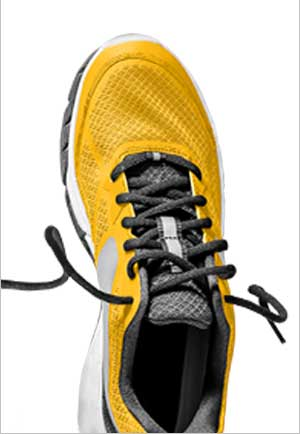
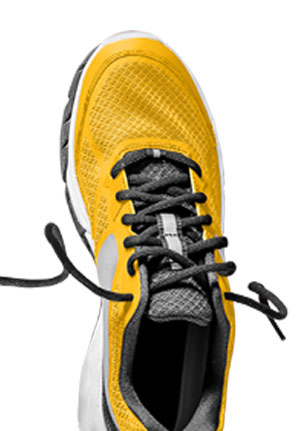
updates

Changed region(s): [[0.0, 0.0, 1.0, 1.0], [0.72, 0.9049, 0.75, 0.935], [0.42, 0.935, 0.45, 0.9652]]

diff --git a/demopage/Launch/2021/BSWH_NTX_Neuro/img/300x600/index.js b/demopage/Launch/2021/BSWH_NTX_Neuro/img/300x600/index.js
@@ -28,19 +28,19 @@ lib.ssMetadata = [];
 (lib.image_01 = function() {
 	this.initialize(img.image_01);
 }).prototype = p = new cjs.Bitmap();
-p.nominalBounds = new cjs.Rectangle(0,0,300,434);
+p.nominalBounds = new cjs.Rectangle(0,0,300,431);
 
 
 (lib.image_02 = function() {
 	this.initialize(img.image_02);
 }).prototype = p = new cjs.Bitmap();
-p.nominalBounds = new cjs.Rectangle(0,0,300,434);
+p.nominalBounds = new cjs.Rectangle(0,0,300,431);
 
 
 (lib.image_03 = function() {
 	this.initialize(img.image_03);
 }).prototype = p = new cjs.Bitmap();
-p.nominalBounds = new cjs.Rectangle(0,0,300,434);// helper functions:
+p.nominalBounds = new cjs.Rectangle(0,0,300,431);// helper functions:
 
 function mc_symbol_clone() {
 	var clone = this._cloneProps(new this.constructor(this.mode, this.startPosition, this.loop, this.reversed));
@@ -210,12 +210,13 @@ if (reversed == null) { reversed = false; }
 
 	// Layer_1
 	this.instance = new lib.image_03();
+	this.instance.setTransform(0,2);
 
 	this.timeline.addTween(cjs.Tween.get(this.instance).wait(1));
 
 	this._renderFirstFrame();
 
-}).prototype = getMCSymbolPrototype(lib.image_03_1, new cjs.Rectangle(0,0,300,434), null);
+}).prototype = getMCSymbolPrototype(lib.image_03_1, new cjs.Rectangle(0,2,300,431), null);
 
 
 (lib.image_02_1 = function(mode,startPosition,loop,reversed) {
@@ -231,12 +232,13 @@ if (reversed == null) { reversed = false; }
 
 	// Layer_1
 	this.instance = new lib.image_02();
+	this.instance.setTransform(0,2);
 
 	this.timeline.addTween(cjs.Tween.get(this.instance).wait(1));
 
 	this._renderFirstFrame();
 
-}).prototype = getMCSymbolPrototype(lib.image_02_1, new cjs.Rectangle(0,0,300,434), null);
+}).prototype = getMCSymbolPrototype(lib.image_02_1, new cjs.Rectangle(0,2,300,431), null);
 
 
 (lib.image_01_1 = function(mode,startPosition,loop,reversed) {
@@ -252,12 +254,13 @@ if (reversed == null) { reversed = false; }
 
 	// Layer_1
 	this.instance = new lib.image_01();
+	this.instance.setTransform(0,2);
 
 	this.timeline.addTween(cjs.Tween.get(this.instance).wait(1));
 
 	this._renderFirstFrame();
 
-}).prototype = getMCSymbolPrototype(lib.image_01_1, new cjs.Rectangle(0,0,300,434), null);
+}).prototype = getMCSymbolPrototype(lib.image_01_1, new cjs.Rectangle(0,2,300,431), null);
 
 
 (lib.ctaBtn = function(mode,startPosition,loop,reversed) {
@@ -545,7 +548,7 @@ if (reversed == null) { reversed = false; }
 	this._renderFirstFrame();
 
 }).prototype = p = new lib.AnMovieClip();
-p.nominalBounds = new cjs.Rectangle(149,299,425.20000000000005,741);
+p.nominalBounds = new cjs.Rectangle(149,299,425.20000000000005,740);
 // library properties:
 lib.properties = {
 	id: '4CB3FE4512EC4F04AD1A078CE62F288A',
@@ -555,9 +558,9 @@ lib.properties = {
 	color: "#FFFFFF",
 	opacity: 1.00,
 	manifest: [
-		{src:"image_01.jpg?1620231492830", id:"image_01"},
-		{src:"image_02.jpg?1620231492830", id:"image_02"},
-		{src:"image_03.jpg?1620231492830", id:"image_03"}
+		{src:"image_01.jpg", id:"image_01"},
+		{src:"image_02.jpg", id:"image_02"},
+		{src:"image_03.jpg", id:"image_03"}
 	],
 	preloads: []
 };

diff --git a/demopage/Launch/2021/BSWH_NTX_Neuro/img/300x600/index.html b/demopage/Launch/2021/BSWH_NTX_Neuro/img/300x600/index.html
@@ -15,7 +15,7 @@
 <title>index</title>
 <!-- write your code here -->
 <script src="https://s0.2mdn.net/ads/studio/cached_libs/createjs_2019.11.15_min.js"></script>
-<script src="index.js?1620231492837"></script>
+<script src="index.js"></script>
 <script>
 var canvas, stage, exportRoot, anim_container, dom_overlay_container, fnStartAnimation;
 function init() {
